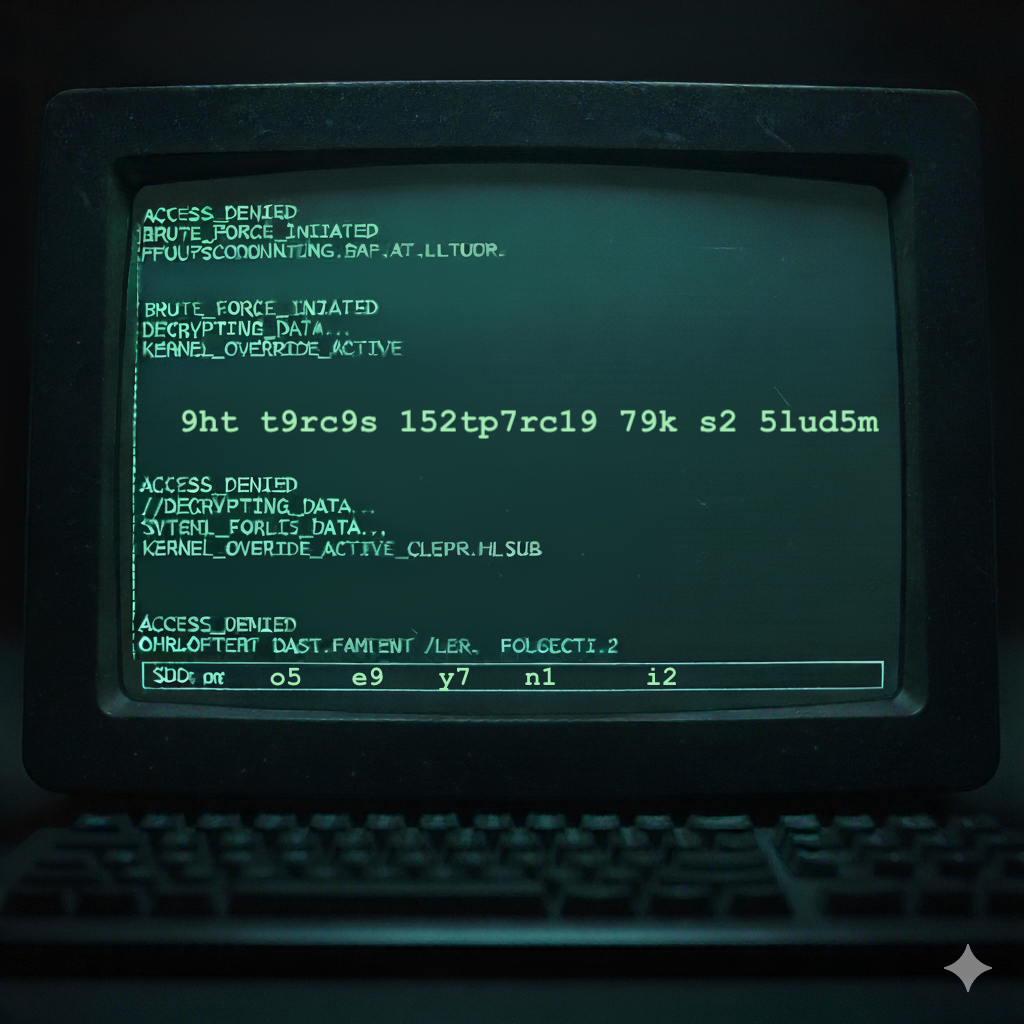
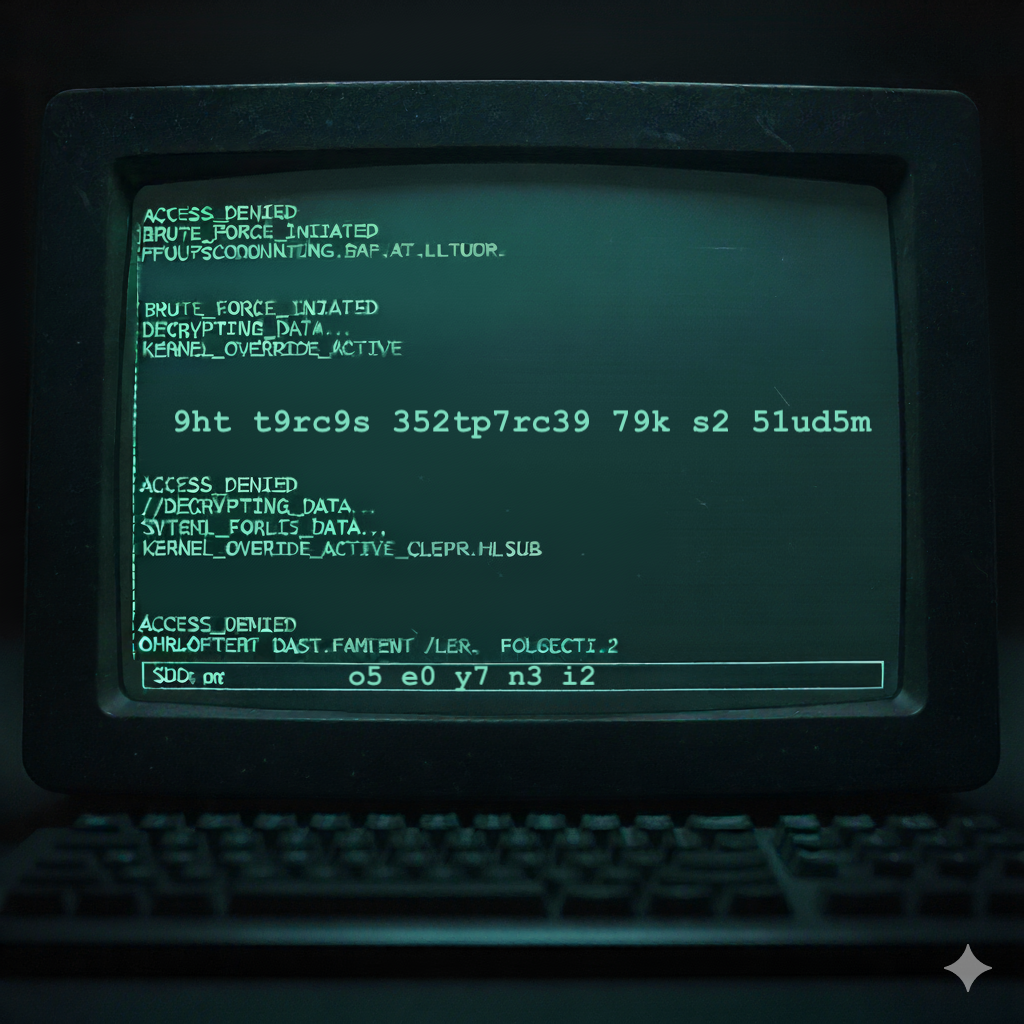
fix edits to crypto escape, push it live

diff --git a/content/new_syllabus/unit_01_cryptography/crypto_escape/_index.md b/content/new_syllabus/unit_01_cryptography/crypto_escape/_index.md
@@ -13,14 +13,4 @@ To get out of each "room" (webpage) of this escape room, you will need to solve 
 
 You will need to use the labs to help you escape. 
 
----
-
-There's a hacker in ISF attempting to release the personal information of students. It's your responsiblity to save the school! 
-
-The head of ISF's IT brings you to a supercomputer in the middle of the Head of School's conference room on A11. There are a series of numbers printed on the console. 
-
-{{< figure src="images/courses/new/crypto_escape0.png" width="50%">}}
-
-
-
-
+The teacher will reveal the first password when everyone is ready to begin...

diff --git a/content/new_syllabus/unit_01_cryptography/crypto_escape/incipiam/_index.md b/content/new_syllabus/unit_01_cryptography/crypto_escape/incipiam/_index.md
@@ -1,0 +1,20 @@
+---
+weight: 0
+bookCollapseSection: true
+title: "room1"
+bookHidden: true
+# draft: true
+---
+
+
+# Room 1
+
+There's a hacker in ISF attempting to release the personal information of students. It's your responsiblity to save the school! 
+
+The head of ISF's IT brings you to a supercomputer in the middle of the Head of School's conference room on A11. There are a series of numbers printed on the console. 
+
+{{< figure src="images/courses/new/crypto_escape0.png" width="50%">}}
+
+
+
+

diff --git a/content/new_syllabus/unit_01_cryptography/crypto_escape/incipiam/encryption/_index.md b/content/new_syllabus/unit_01_cryptography/crypto_escape/incipiam/encryption/_index.md
@@ -6,7 +6,7 @@ bookHidden: true
 # draft: true
 ---
 
-# /encryption
+# Room 2
 
 You bypass the first secrutiy measure. But then another cryptic message appears. 
 

diff --git a/content/new_syllabus/unit_01_cryptography/crypto_escape/incipiam/encryption/modulo/kongsinwan/_index.md b/content/new_syllabus/unit_01_cryptography/crypto_escape/incipiam/encryption/modulo/kongsinwan/_index.md
@@ -6,7 +6,7 @@ bookHidden: true
 # draft: true
 ---
 
-# /kongsinwan 
+# Boo
 
 You downloaded the viruses and released ISF's secrets :( 
 

diff --git a/content/new_syllabus/unit_01_cryptography/crypto_escape/incipiam/encryption/modulo/eightvirtuesplusone/_index.md b/content/new_syllabus/unit_01_cryptography/crypto_escape/incipiam/encryption/modulo/eightvirtuesplusone/_index.md
@@ -6,7 +6,7 @@ bookHidden: true
 # draft: true
 ---
 
-# /eightvirtuesplusone 
+# Yay!
 
 Congrats! You saved the ISF!
 

diff --git a/content/new_syllabus/unit_01_cryptography/crypto_escape/incipiam/encryption/modulo/_index.md b/content/new_syllabus/unit_01_cryptography/crypto_escape/incipiam/encryption/modulo/_index.md
@@ -6,7 +6,7 @@ bookHidden: true
 # draft: true
 ---
 
-# /modulo 
+# Room 3
 
 You're getting very close! 
 
